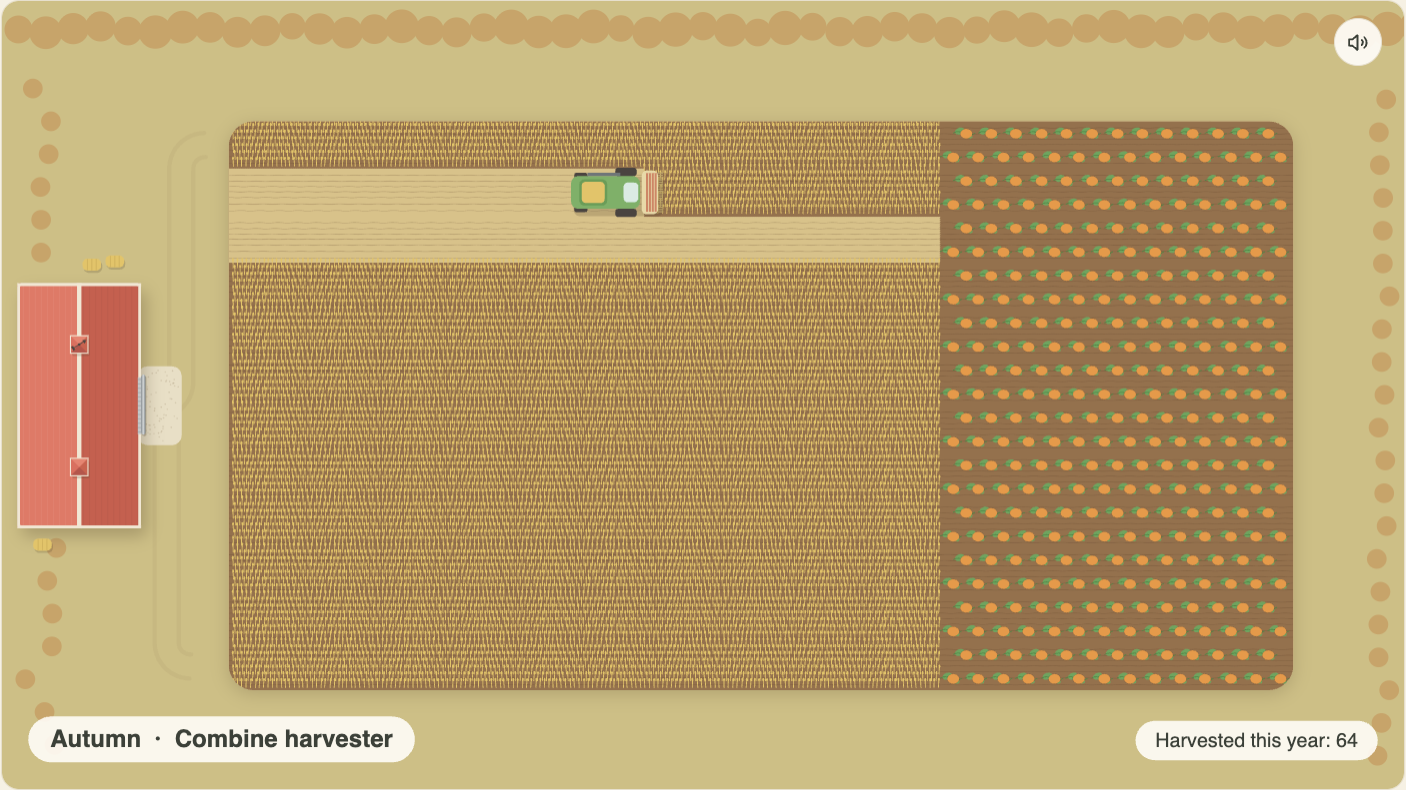
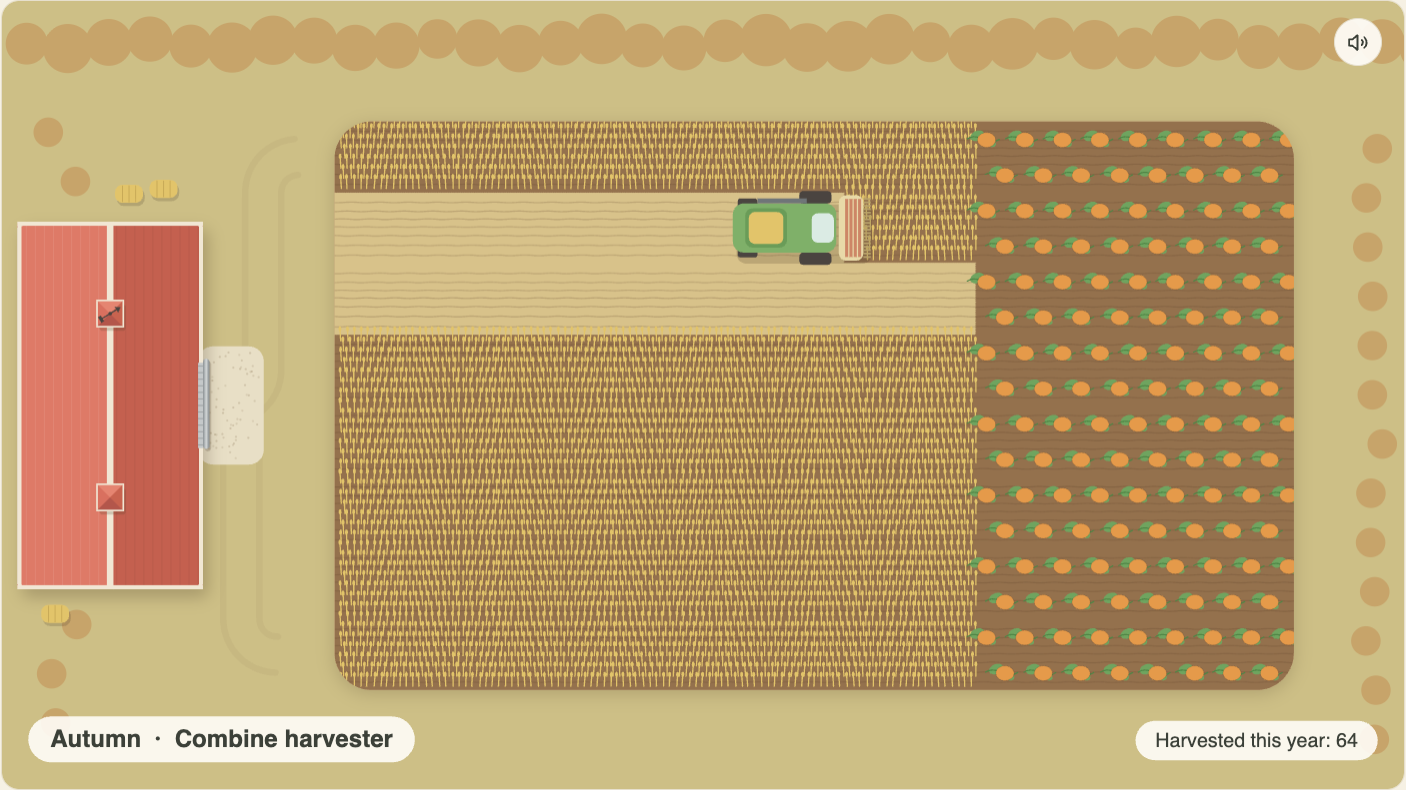
Draw the farm at three-quarter scale (ZOOM 0.75)
The field now holds eight approved lanes. Strip work samples in whole
steps so a fractional soil cell still reaches both implement edges, and
the strip test keeps its edges off cell boundaries. Screenshots retaken.

diff --git a/src/game/constants.ts b/src/game/constants.ts
@@ -4,9 +4,9 @@ export const H = 720;
 
 // How large the world is drawn: screen pixels per world unit. Machines, implements, the barn,
 // plants, lanes and speeds are all in world units, so this one number sets the scale of the
-// farm. At 1 the view holds the original six-lane field; at 0.5 everything is drawn half size
-// and the same pane holds a field about twice as long and twice as deep.
-export const ZOOM = 0.5;
+// farm. At 1 the view holds the original six-lane field; at 0.75 everything is drawn at three
+// quarters of that size and the same pane holds an eight-lane field.
+export const ZOOM = 0.75;
 export const WORLD_W = W / ZOOM;
 export const WORLD_H = H / ZOOM;
 
@@ -34,7 +34,7 @@ export const FIELD = {
   r: 46,
 } as const;
 export const COLS = Math.round(FIELD.w / CELL);
-export const ROWS = Math.floor(FIELD.h / CELL);
+export const ROWS = Math.floor(FIELD.h / CELL + 1e-9);
 
 export const DOOR_Y = Math.round(FIELD.y + FIELD.h / 2);
 export const DOOR_TOP = DOOR_Y - 52;

diff --git a/tests/layout.test.ts b/tests/layout.test.ts
@@ -3,16 +3,16 @@ import { BARN, CELL, COLS, DOOR_BOTTOM, DOOR_TOP, DOOR_X, DOOR_Y, FIELD, LANES, 
 import { BOUNDS, insideBarn } from '../src/game/vehicle';
 
 describe('layout at the configured zoom', () => {
-  it('draws the farm at half size, so the field holds twelve approved lanes', () => {
-    expect(ZOOM).toBe(0.5);
-    expect(LANES).toBe(12);
+  it('draws the farm at three-quarter size, so the field holds eight approved lanes', () => {
+    expect(ZOOM).toBe(0.75);
+    expect(LANES).toBe(8);
     expect(FIELD.h).toBeCloseTo(LANES * LANE_H);
   });
 
   it('keeps the soil grid two screen pixels a cell and covering the field', () => {
-    expect(CELL * ZOOM).toBe(2);
-    expect(COLS * CELL).toBe(FIELD.w);
-    expect(ROWS * CELL).toBeLessThanOrEqual(FIELD.h);
+    expect(CELL * ZOOM).toBeCloseTo(2);
+    expect(COLS * CELL).toBeCloseTo(FIELD.w);
+    expect(ROWS * CELL).toBeLessThanOrEqual(FIELD.h + 1e-6);
     expect(FIELD.h - ROWS * CELL).toBeLessThan(CELL);
   });
 

diff --git a/src/game/field.ts b/src/game/field.ts
@@ -65,8 +65,10 @@ export function workCell(f: Field, i: number, job: Job, crop: Crop): { changed: 
 export function workStrip(f: Field, x: number, y: number, a: number, halfWidth: number, job: Job, crop: Crop): { changed: number[]; harvested: number } {
   const nx = -Math.sin(a), ny = Math.cos(a), changed: number[] = [];
   let harvested = 0;
-  for (let t = -halfWidth; t <= halfWidth; t += CELL / 2) {
-    const i = cellAt(x + nx * t, y + ny * t);
+  // sample every half cell, counted in whole steps so a fractional CELL still reaches both edges
+  const n = Math.max(1, Math.round((4 * halfWidth) / CELL));
+  for (let k = 0; k <= n; k++) {
+    const t = -halfWidth + (2 * halfWidth * k) / n, i = cellAt(x + nx * t, y + ny * t);
     if (i < 0) continue;
     const r = workCell(f, i, job, crop);
     if (r.changed) changed.push(i);

diff --git a/tests/field.test.ts b/tests/field.test.ts
@@ -33,8 +33,9 @@ describe('soil state transitions', () => {
 
   it('works a strip square to the heading under the implement', () => {
     const f = createField();
-    const { changed } = workStrip(f, FIELD.x + 100, FIELD.y + 100, 0, 20, 'cultivate', 'wheat');
-    expect(changed.length).toBe((2 * 20) / CELL + 1);
+    // edges kept off cell boundaries, so the count does not hang on float rounding
+    const { changed } = workStrip(f, FIELD.x + 100, FIELD.y + 100, 0, 21, 'cultivate', 'wheat');
+    expect(changed.length).toBe(Math.floor(121 / CELL) - Math.floor(79 / CELL) + 1);
     expect(f.soil[cellAt(FIELD.x + 100, FIELD.y + 90)]).toBe(CULTIVATED);
     expect(f.soil[cellAt(FIELD.x + 100 + CELL, FIELD.y + 100)]).toBe(RAW);
     expect(cellAt(FIELD.x - 1, FIELD.y)).toBe(-1);

diff --git a/src/game/vehicle.ts b/src/game/vehicle.ts
@@ -16,8 +16,8 @@ export interface Controls {
   right: boolean;
 }
 
-// World units per second. At ZOOM 0.5 the top speed is 32 screen px/s, gentler on screen
-// than the original 46, and about half a minute to drive one lane of the field.
+// World units per second, so the pace on screen follows ZOOM: at 0.75 the top speed is
+// 48 screen px/s, about the original 46, and some twenty seconds to drive one lane.
 export const MAX_SPEED = 64;
 export const REVERSE_SPEED = 22;
 // Quick enough that a short tap visibly moves the machine, still calm at the top.
